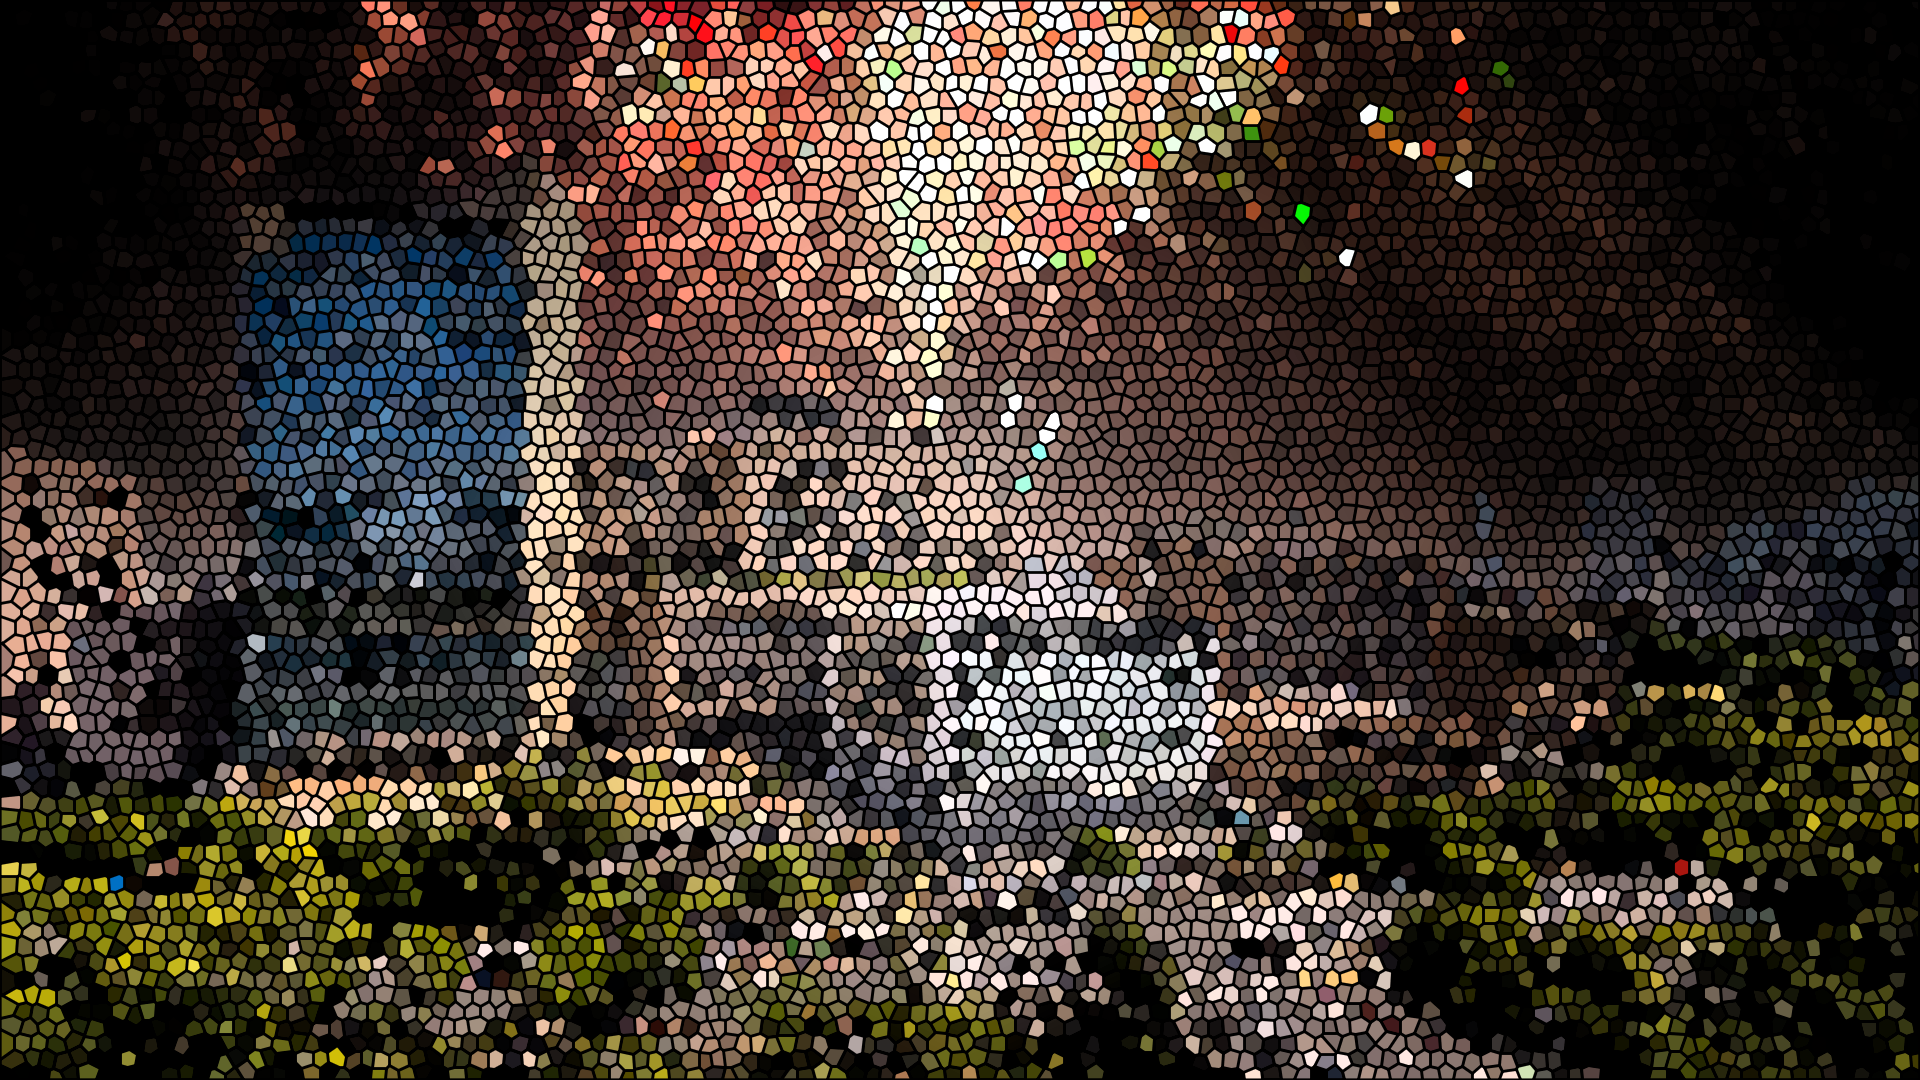
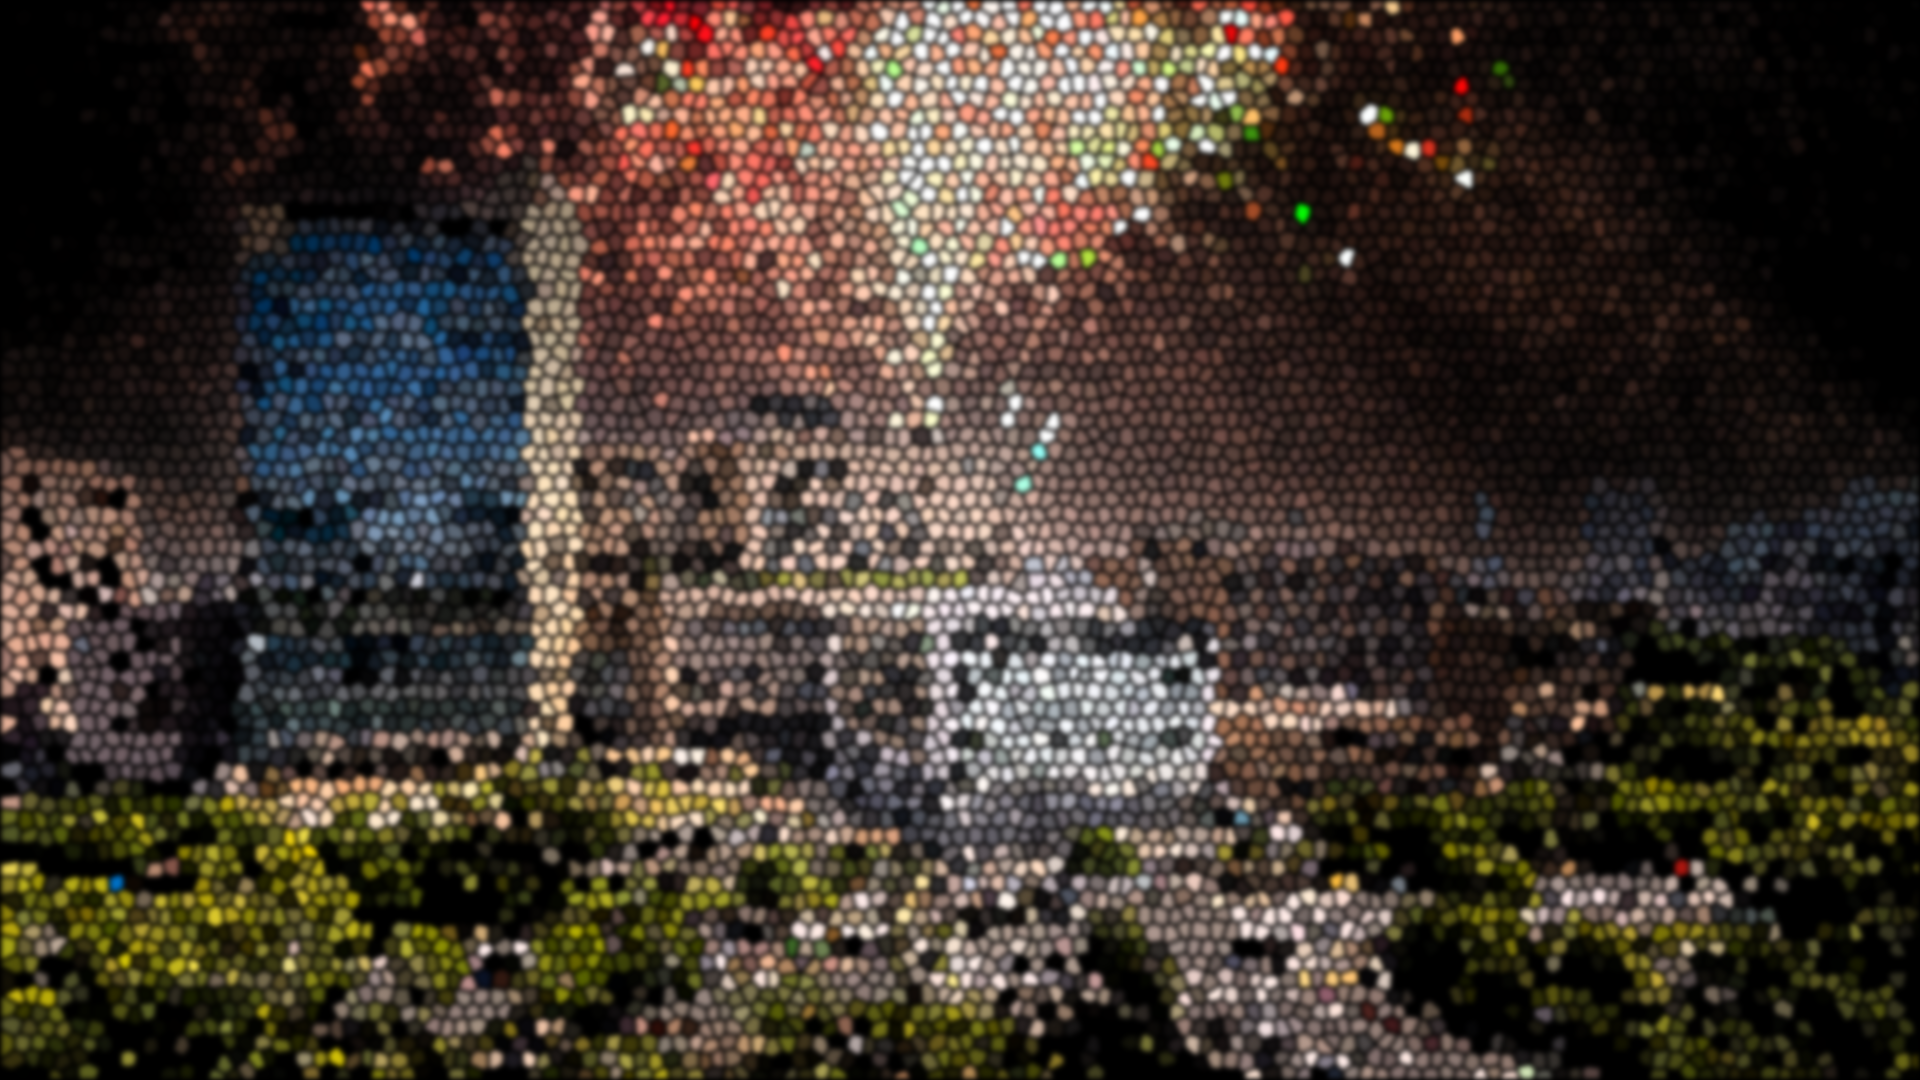
キャラ選択時に選択キャラを分かりやすくした

diff --git a/Source/Matching.cpp b/Source/Matching.cpp
@@ -1,6 +1,7 @@
 //FIXME:ユーザが途中退室すると確実にバグる
 #include "Matching.hpp"
 # include "common_function.hpp"
+# include <ranges>
 using namespace std;
 
 Matching::Matching(const InitData& init) : IScene(init)
@@ -12,7 +13,7 @@ Matching::Matching(const InitData& init) : IScene(init)
 		error_mode = 1;
 	}
 #endif
-	
+
 	//通信関連の処理
 	if (getData().before_scene != State::Calibration) {
 		//鯖との接続を確立する
@@ -24,12 +25,13 @@ Matching::Matching(const InitData& init) : IScene(init)
 			//部屋を作る
 			if (getData().room_mode == 0) {
 				getData().client = SyncClient::createRoom(api, U"Owner").get();
-				getData().room_ID =(Parse<String>(getData().client->roomName.str())).narrow();
+				getData().room_ID = (Parse<String>(getData().client->roomName.str())).narrow();
 				getData().timer = (int)Time::GetSec() - 1;
 				is_owner = true;
 				//部屋に入る
-			}else {
-                getData().client = SyncClient::joinRoom(api, Unicode::Widen(getData().room_ID), U"Guest").get();
+			}
+			else {
+				getData().client = SyncClient::joinRoom(api, Unicode::Widen(getData().room_ID), U"Guest").get();
 				//既に決定している場合、反映する
 				//ただし、現時点では２人プレイのみを想定
 				if ((getData().client)->roomInfo.player.size()) {
@@ -44,13 +46,21 @@ Matching::Matching(const InitData& init) : IScene(init)
 		//TODO:エラーダイアログに変える
 		catch (const Error& error) {
 			Print << U"INTERNAL ERROR:" << error.what();
-			OutputLogFile("(INTERNAL ERROR)\n"+error.what().narrow());
+			OutputLogFile("(INTERNAL ERROR)\n" + error.what().narrow());
+		}
+		// 光らせるやつの初期化
+		for (const auto chars = { select_char_img1, select_char_img2, select_char_img3, select_char_img4 };
+			auto& charactors : chars) {
+			select_char_glow[&charactors - chars.begin()].init(charactors);
+		}
+		for (auto&& [img, glow] : std::views::zip(stand_char_img, character_glow)) {
+			glow.init(img);
 		}
 	}
 	room_ID = getData().room_ID;
 }
 
-void Matching::setErrorMessage(int error_code,String message)
+void Matching::setErrorMessage(int error_code, String message)
 {
 	if (error_code == 404) {
 		string error_message = message.narrow();
@@ -70,10 +80,11 @@ void Matching::setErrorMessage(int error_code,String message)
 	}elif(error_code == 500) {
 		error_ID = 4;
 		error_mode = 1;
-	//TODO:完全なエラーダイアログに変える
-	}else {
+		//TODO:完全なエラーダイアログに変える
+	}
+	else {
 		Print << U"[SERVER ERROR:" << error_code << U"] " << message;
-		OutputLogFile("(SERVER ERROR:CODE [" +to_string(error_code) + "])\n" + message.narrow());
+		OutputLogFile("(SERVER ERROR:CODE [" + to_string(error_code) + "])\n" + message.narrow());
 	}
 	return;
 }
@@ -87,7 +98,7 @@ void Matching::syncRoomInfo()
 			character_changed = false;
 		}
 		//(鯖主の場合)残り時間を伝える
-		if (is_owner&&(old_remaining_time != remaining_time)&&(member_sum != (getData().client->getUsers()).size())) {
+		if (is_owner && (old_remaining_time != remaining_time) && (member_sum != (getData().client->getUsers()).size())) {
 			getData().client->sendReport(U"ElapsedTime", ((int)Time::GetSec() - getData().timer));
 			member_sum = (getData().client->getUsers()).size();
 		}
@@ -107,7 +118,7 @@ void Matching::syncRoomInfo()
 				opponent_character_number = event->data.get<int>();
 			}
 			//(鯖主じゃない場合)鯖主の待機時間を取得
-			if ((!is_owner) &&(!recieved_time)&& (event->type == U"ElapsedTime")) {
+			if ((!is_owner) && (!recieved_time) && (event->type == U"ElapsedTime")) {
 				getData().timer = (int)Time::GetSec() - (event->data.get<int>());
 				recieved_time = true;
 			}
@@ -123,13 +134,14 @@ void Matching::syncRoomInfo()
 				//整合性の確認が取れたらそのことを伝える
 				if (event->data.get<int>() == confirm_num) {
 					//問題なければゲーム画面への移行許可を発報してゲーム画面へ
-					getData().client->sendReport(U"IsOK",true);
-				}else {
+					getData().client->sendReport(U"IsOK", true);
+				}
+				else {
 					//整合性に問題があれば鯖側で勝手に予測して押し付けてゲーム画面へ
 					getData().client->sendReport(U"IsOK", false);
 					opponent_character_number = event->data.get<int>() % 10;
 					getData().client->sendReport(U"AcuurateData", character_number);
-					OutputLogFile("整合性の確認が取れませんでした。\n鯖:" + to_string(confirm_num) + ",ユーザー:"+to_string(event->data.get<int>()));
+					OutputLogFile("整合性の確認が取れませんでした。\n鯖:" + to_string(confirm_num) + ",ユーザー:" + to_string(event->data.get<int>()));
 				}
 				//ガラガラ閉店
 				getData().client->sendStart();
@@ -165,7 +177,7 @@ void Matching::syncRoomInfo()
 		setErrorMessage(FromEnum(error.statusCode), error.what());
 	}
 	catch (const Error& error) {
-		Print <<  error.what();
+		Print << error.what();
 		OutputLogFile("(INTERNAL ERROR)\n" + error.what().narrow());
 	}
 }
@@ -173,7 +185,7 @@ void Matching::syncRoomInfo()
 String Matching::CalcRemainingTime()
 {
 	//制限時間は10分
-	int remaining_int_time = 600-((int)Time::GetSec() - getData().timer);
+	int remaining_int_time = 600 - ((int)Time::GetSec() - getData().timer);
 	//時間切れ☆
 	if (remaining_int_time < 1) {
 		remaining_int_time = 0;
@@ -185,7 +197,7 @@ String Matching::CalcRemainingTime()
 	//0埋め
 	minute.insert(minute.begin(), 2 - minute.size(), '0');
 	second.insert(second.begin(), 2 - second.size(), '0');
-    return Unicode::Widen(minute+":"+second);
+	return Unicode::Widen(minute + ":" + second);
 }
 
 void Matching::update()
@@ -195,12 +207,13 @@ void Matching::update()
 		error_timer = (int)Time::GetMillisec();
 		error_mode = 2;
 		return;
-	}elif (error_mode == 2) {
+	}elif(error_mode == 2) {
 		int now_time = (int)Time::GetMillisec();
 		if (now_time - error_timer <= 200) {
 			error_pos_y = 1400 - 1040 * (now_time - error_timer) / 200;
 			back_alpha = 0.8 * (now_time - error_timer) / 200;
-		}else {
+		}
+		else {
 			error_pos_y = 360;
 			back_alpha = 0.8;
 			error_mode = 3;
@@ -210,7 +223,7 @@ void Matching::update()
 		if (OK_shape.mouseOver())  Cursor::RequestStyle(CursorStyle::Hand);
 		if (Yes_shape.mouseOver()) Cursor::RequestStyle(CursorStyle::Hand);
 		//タイトルに戻る
-		if (OK_shape.leftClicked()|| Yes_shape.leftClicked()) {
+		if (OK_shape.leftClicked() || Yes_shape.leftClicked()) {
 			cancel_sound.playOneShot();
 			getData().before_scene = State::Matching;
 			changeScene(State::Title, 0.8s);
@@ -315,7 +328,7 @@ void Matching::update()
 			copy_mode = 2;
 			copy_timer = now_time;
 		}
-		copy_pos_y = (int)(- 30.0 + EaseOutExpo(now_rate) * 80.0);
+		copy_pos_y = (int)(-30.0 + EaseOutExpo(now_rate) * 80.0);
 	}elif(copy_mode == 2) {
 		if (now_time - copy_timer > 1500) {
 			copy_mode = 3;
@@ -340,34 +353,44 @@ void Matching::draw() const
 	//キャラの立ち絵の表示
 	if (is_owner) {
 		you_img.drawAt(360, 60);
-		stand_char_img[character_number].drawAt(360, 540);
+		character_glow[character_number].drawAt({ 360, 540 }, Palette::Silver);
 		stand_char_img[opponent_character_number].mirrored().drawAt(1560, 540);
-	}else {
+	}
+	else {
 		you_img.drawAt(1560, 60);
-		stand_char_img[character_number].mirrored().drawAt(1560, 540);
+		character_glow[character_number].drawAt({ 1560, 540 }, Palette::Silver);
 		stand_char_img[opponent_character_number].drawAt(360, 540);
 	}
 	//キミに決めた！
 	if (getData().decided_character) {
 		fixed_img.drawAt(960, 540);
-	}else {
+	}
+	else {
 		decide_img.scaled(decide_button_size).drawAt(960, 540);
 	}
 	//相手が確定したら表示
 	if (opponent_decided) {
-		decided_img.drawAt(is_owner?1560:360, 60);
+		decided_img.drawAt(is_owner ? 1560 : 360, 60);
 	}
 
 	//各種ボタンの表示
 	return_img.draw(20, 20);
-	select_char_img1.draw(230, 720);
-	select_char_img2.draw(540, 720);
+# define draw_select_char_img(i,x,y,color) if (character_number == i-1) {\
+	select_char_glow[i-1].draw({x,y}, color); \
+	} else {\
+	select_char_img##i.draw(x,y); \
+	}
+
+	draw_select_char_img(1, 230, 720, Palette::Blueviolet);
+	draw_select_char_img(2, 540, 720, Palette::Orangered);
 	random_select_img.draw(850, 720);
-	select_char_img3.draw(1035, 720);
-	select_char_img4.draw(1345, 720);
+	draw_select_char_img(3, 1035, 720, Palette::Yellowgreen);
+	draw_select_char_img(4, 1345, 720, Palette::Dodgerblue);
+# undef draw_select_char_img
 	if (getData().decided_character) {
 		disabled_setting_img.drawAt(1852, 68);
-	}else {
+	}
+	else {
 		setting_img.drawAt(1852, 68);
 	}
 
@@ -391,7 +414,7 @@ void Matching::drawErrorDialog() const
 	Rect(0, 0, 1920, 1080).draw(ColorF{ 0, back_alpha });
 	if (error_ID == 0) {
 		error_img.drawAt(960, error_pos_y);
-	}elif (error_ID == 1) {
+	}elif(error_ID == 1) {
 		not_found_img.drawAt(960, error_pos_y);
 	}elif(error_ID == 2) {
 		not_found_img2.drawAt(960, error_pos_y);
@@ -413,14 +436,14 @@ void Matching::drawFadeIn(double t) const
 {
 	if (!bgm.isPlaying()) bgm.play();
 	draw();
-	Rect(0, 0, 1920, 1080).draw(ColorF{ 0, 1.0 - t});
-	connecting_img.drawAt(1500, 950, ColorF{ 1, 1.0 - t});
+	Rect(0, 0, 1920, 1080).draw(ColorF{ 0, 1.0 - t });
+	connecting_img.drawAt(1500, 950, ColorF{ 1, 1.0 - t });
 }
 
 void Matching::drawFadeOut(double t) const
 {
 	if (bgm.isPlaying()) bgm.stop();
 	draw();
-	Rect(0, 0, 1920, 1080).draw(ColorF{ 0, t});
+	Rect(0, 0, 1920, 1080).draw(ColorF{ 0, t });
 	if (gotoGame)connecting_img.drawAt(1500, 950, ColorF{ 1, t });
 }

diff --git a/Source/Matching.hpp b/Source/Matching.hpp
@@ -1,5 +1,6 @@
 # pragma once
 # include "common.hpp"
+# include "GlowBorder.hpp"
 
 class Matching : public App::Scene
 {
@@ -36,24 +37,27 @@ class Matching : public App::Scene
 	const Texture calibration_img{ U"../images/matching/calibration.png" };
 	Texture stand_char_img[4] = { stand_char_img1,stand_char_img2,stand_char_img3,stand_char_img4 };
[1 lines of base64/hex data omitted]
-	const Quad select_char_shape1 { Vec2{280,720},Vec2{577,720},Vec2{527,957},Vec2{230,957} };
-	const Quad select_char_shape2 { Vec2{590,720},Vec2{887,720},Vec2{837,957},Vec2{540,957} };
-	const Quad select_char_shape3 { Vec2{1035,720},Vec2{1332,720},Vec2{1382,957},Vec2{1085,957} };
-	const Quad select_char_shape4 { Vec2{1345,720},Vec2{1642,720},Vec2{1692,957},Vec2{1395,957} };
-	const Quad random_select_shape{ Vec2{905,720},Vec2{1021,720},Vec2{1076,957},Vec2{850,957} };
+	const Quad select_char_shape1{ Vec2{ 280,720 },Vec2{ 577,720 },Vec2{ 527,957 },Vec2{ 230,957 } };
+	const Quad select_char_shape2{ Vec2{ 590,720 },Vec2{ 887,720 },Vec2{ 837,957 },Vec2{ 540,957 } };
+	const Quad select_char_shape3{ Vec2{ 1035,720 },Vec2{ 1332,720 },Vec2{ 1382,957 },Vec2{ 1085,957 } };
+	const Quad select_char_shape4{ Vec2{ 1345,720 },Vec2{ 1642,720 },Vec2{ 1692,957 },Vec2{ 1395,957 } };
+	const Quad random_select_shape{ Vec2{ 905,720 },Vec2{ 1021,720 },Vec2{ 1076,957 },Vec2{ 850,957 } };
 	const Rect return_shape{ 20,20,80,80 };
 	const Circle setting_shape{ 1852,68,48 };
-	const RectF RoomID_shape = font(U"888888").regionAt(Vec2{960,70});
+	const RectF RoomID_shape = font(U"888888").regionAt(Vec2{ 960,70 });
 	const RectF timer_shape = font2(U"10:00").regionAt(Vec2{ 960,1000 });
-	const Rect OK_shape {  680,464,240,105 };
+	const Rect OK_shape{ 680,464,240,105 };
 	const Rect Yes_shape{ 1010,464,240,105 };
-	const Rect decide_button_shape{ 960-300, 540-75, 600, 150};
+	const Rect decide_button_shape{ 960 - 300, 540 - 75, 600, 150 };
 	//音声素材////////////////////////////////////////////////////////
 	const Audio bgm{ U"../audioes/th3_05.mp3" , Loop::Yes };
 	const Audio cancel_sound{ U"../audioes/cancel.wav" };
 	const Audio copied_se{ U"../audioes/copied.mp3" };
 	const Audio click_sound{ U"../audioes/click.wav" };
 	const Audio decision_sound{ U"../audioes/decided_char.mp3" };
+	//キャラ選択ハイライト/////////////////////////////////////////////
+	GlowBorder select_char_glow[4];
+	GlowBorder character_glow[4];
 
 	//キャラ選択関連
 	int character_number = 0;

diff --git a/Source/GlowBorder.cpp b/Source/GlowBorder.cpp
@@ -1,0 +1,53 @@
+# include "GlowBorder.hpp"
+
+void GlowBorder::init(const Texture& from_texture)
+{
+	outlineShader = HLSL{ U"Shader/outline.hlsl", U"PS" };
+	if (!outlineShader)
+		throw Error{ U"Failed to load outline shader" };
+
+	texture = from_texture;
+
+	const Size padding{ 40, 40 };
+	const Size size = texture.size() + padding;
+
+	RenderTexture source{ size };
+	outline = RenderTexture{ size };
+
+	{
+		const ScopedRenderTarget2D target{ source.clear(ColorF{ 0.0, 0.0 }) };
+		// Siv3DのデフォルトBlendStateはアルファ書き込みがOFF(Zero, One)のため、
+		// レンダーターゲットにアルファ値を正しく書き込むBlendStateを指定
+		const ScopedRenderStates2D blend{ BlendState{ true, Blend::SrcAlpha, Blend::InvSrcAlpha, BlendOp::Add, Blend::One, Blend::InvSrcAlpha, BlendOp::Add } };
+		texture.drawAt(size / 2);
+		Graphics2D::Flush();
+	}
+
+	{
+		const ScopedRenderTarget2D target{ outline.clear(ColorF{ 0.0, 0.0 }) };
+		const ScopedRenderStates2D blend{ BlendState::Opaque };
+		const ScopedCustomShader2D shader{ outlineShader };
+
+		source.draw(ColorF{ 1.0 });
+		Graphics2D::Flush();
+	}
+
+}
+
+void GlowBorder::draw(const Vec2& pos, const ColorF& color) const
+{
+	{
+		const ScopedRenderStates2D blend{ BlendState::Additive };
+		outline.draw(pos - Vec2{ 20, 20 }, color);
+	}
+	texture.draw(pos);
+}
+
+void GlowBorder::drawAt(const Vec2& pos, const ColorF& color) const
+{
+	{
+		const ScopedRenderStates2D blend{ BlendState::Additive };
+		outline.drawAt(pos, color);
+	}
+	texture.drawAt(pos);
+}

diff --git a/Source/GlowBorder.hpp b/Source/GlowBorder.hpp
@@ -1,0 +1,13 @@
+# pragma once
+# include "common.hpp"
+
+class GlowBorder {
+private:
+	PixelShader outlineShader;
+	RenderTexture outline;
+	Texture texture;
+public:
+	void init(const Texture& texture);
+	void draw(const Vec2& pos, const ColorF& color = Palette::White) const;
+	void drawAt(const Vec2& pos, const ColorF& color = Palette::White) const;
+};

diff --git a/Source/Main.cpp b/Source/Main.cpp
@@ -16,7 +16,7 @@ void Main() {
 	//フルスクリーン
 	//Window::SetFullscreen(true);
 	//タイトル
-	Window::SetTitle(U"Shout Wars v0.2");
+	Window::SetTitle(U"Shout Wars v0.3");
 
 	App manager;
 	manager.add<logo>(State::logo);

diff --git a/Source/Game.cpp b/Source/Game.cpp
@@ -1,5 +1,6 @@
 #include "Game.hpp"
 # include "common_function.hpp"
+#include <ranges>
 
 //音声コマンド
 //共通//////////////////////////////////////

diff --git a/Source/Voice/MFCCAnalyzer.cpp b/Source/Voice/MFCCAnalyzer.cpp
@@ -1,6 +1,7 @@
 # include "MFCCAnalyzer.hpp"
 
 # include <complex>
+# include <ranges>
 
 using namespace std;
 

diff --git a/Source/Voice/WordDetector.cpp b/Source/Voice/WordDetector.cpp
@@ -1,4 +1,5 @@
 # include "WordDetector.hpp"
+# include <ranges>
 
 using namespace std;
 
